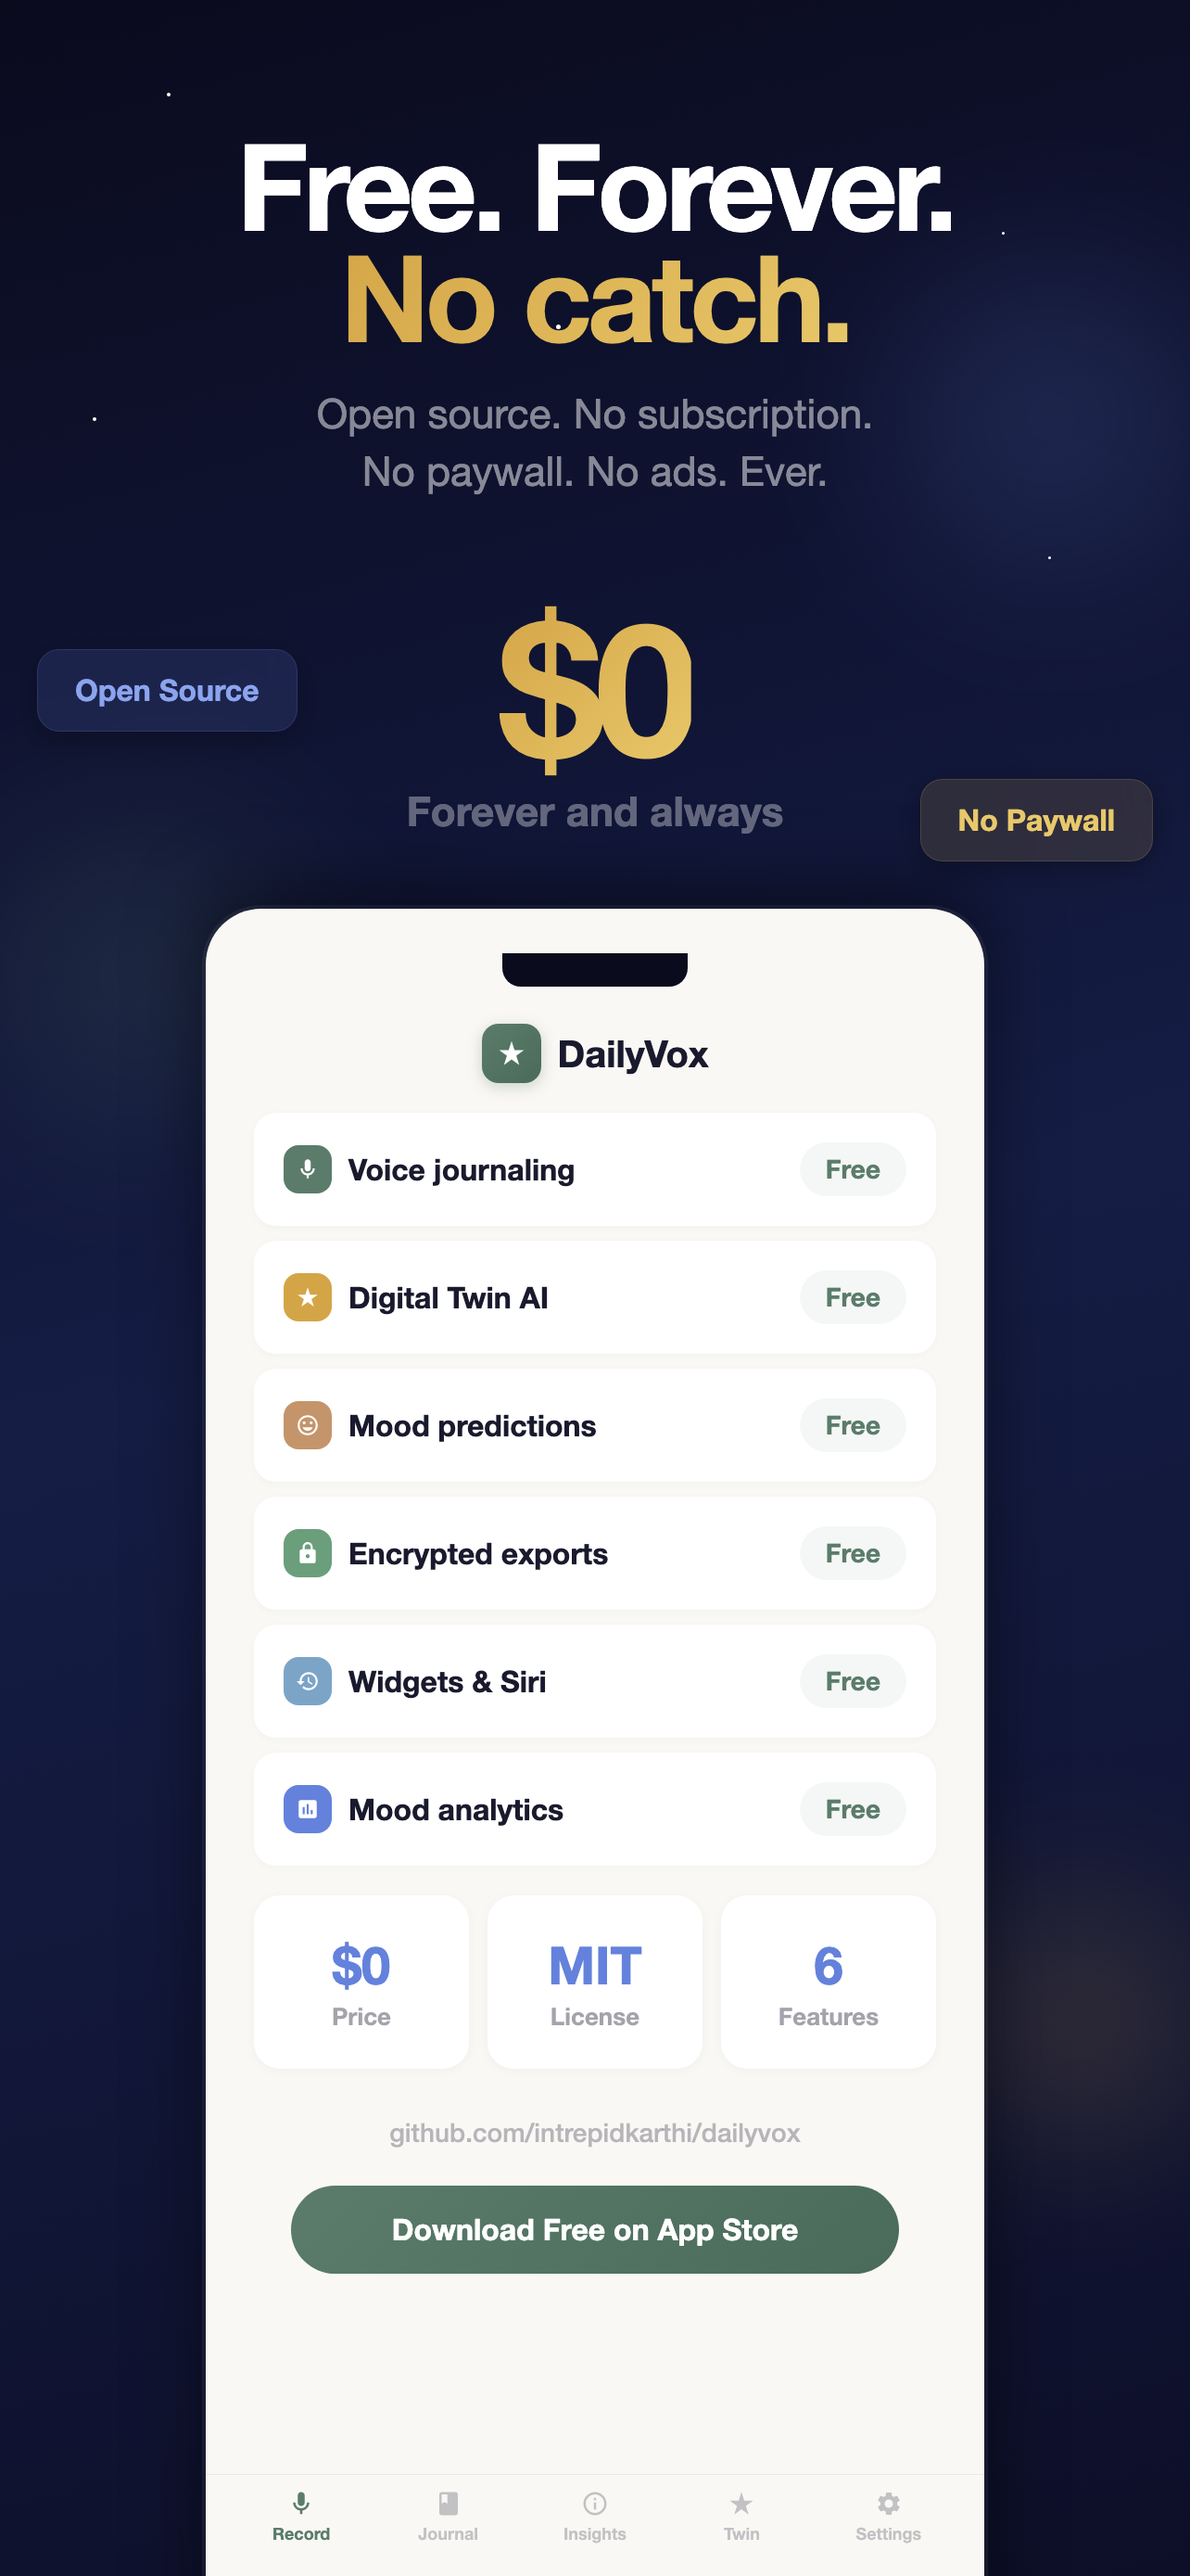
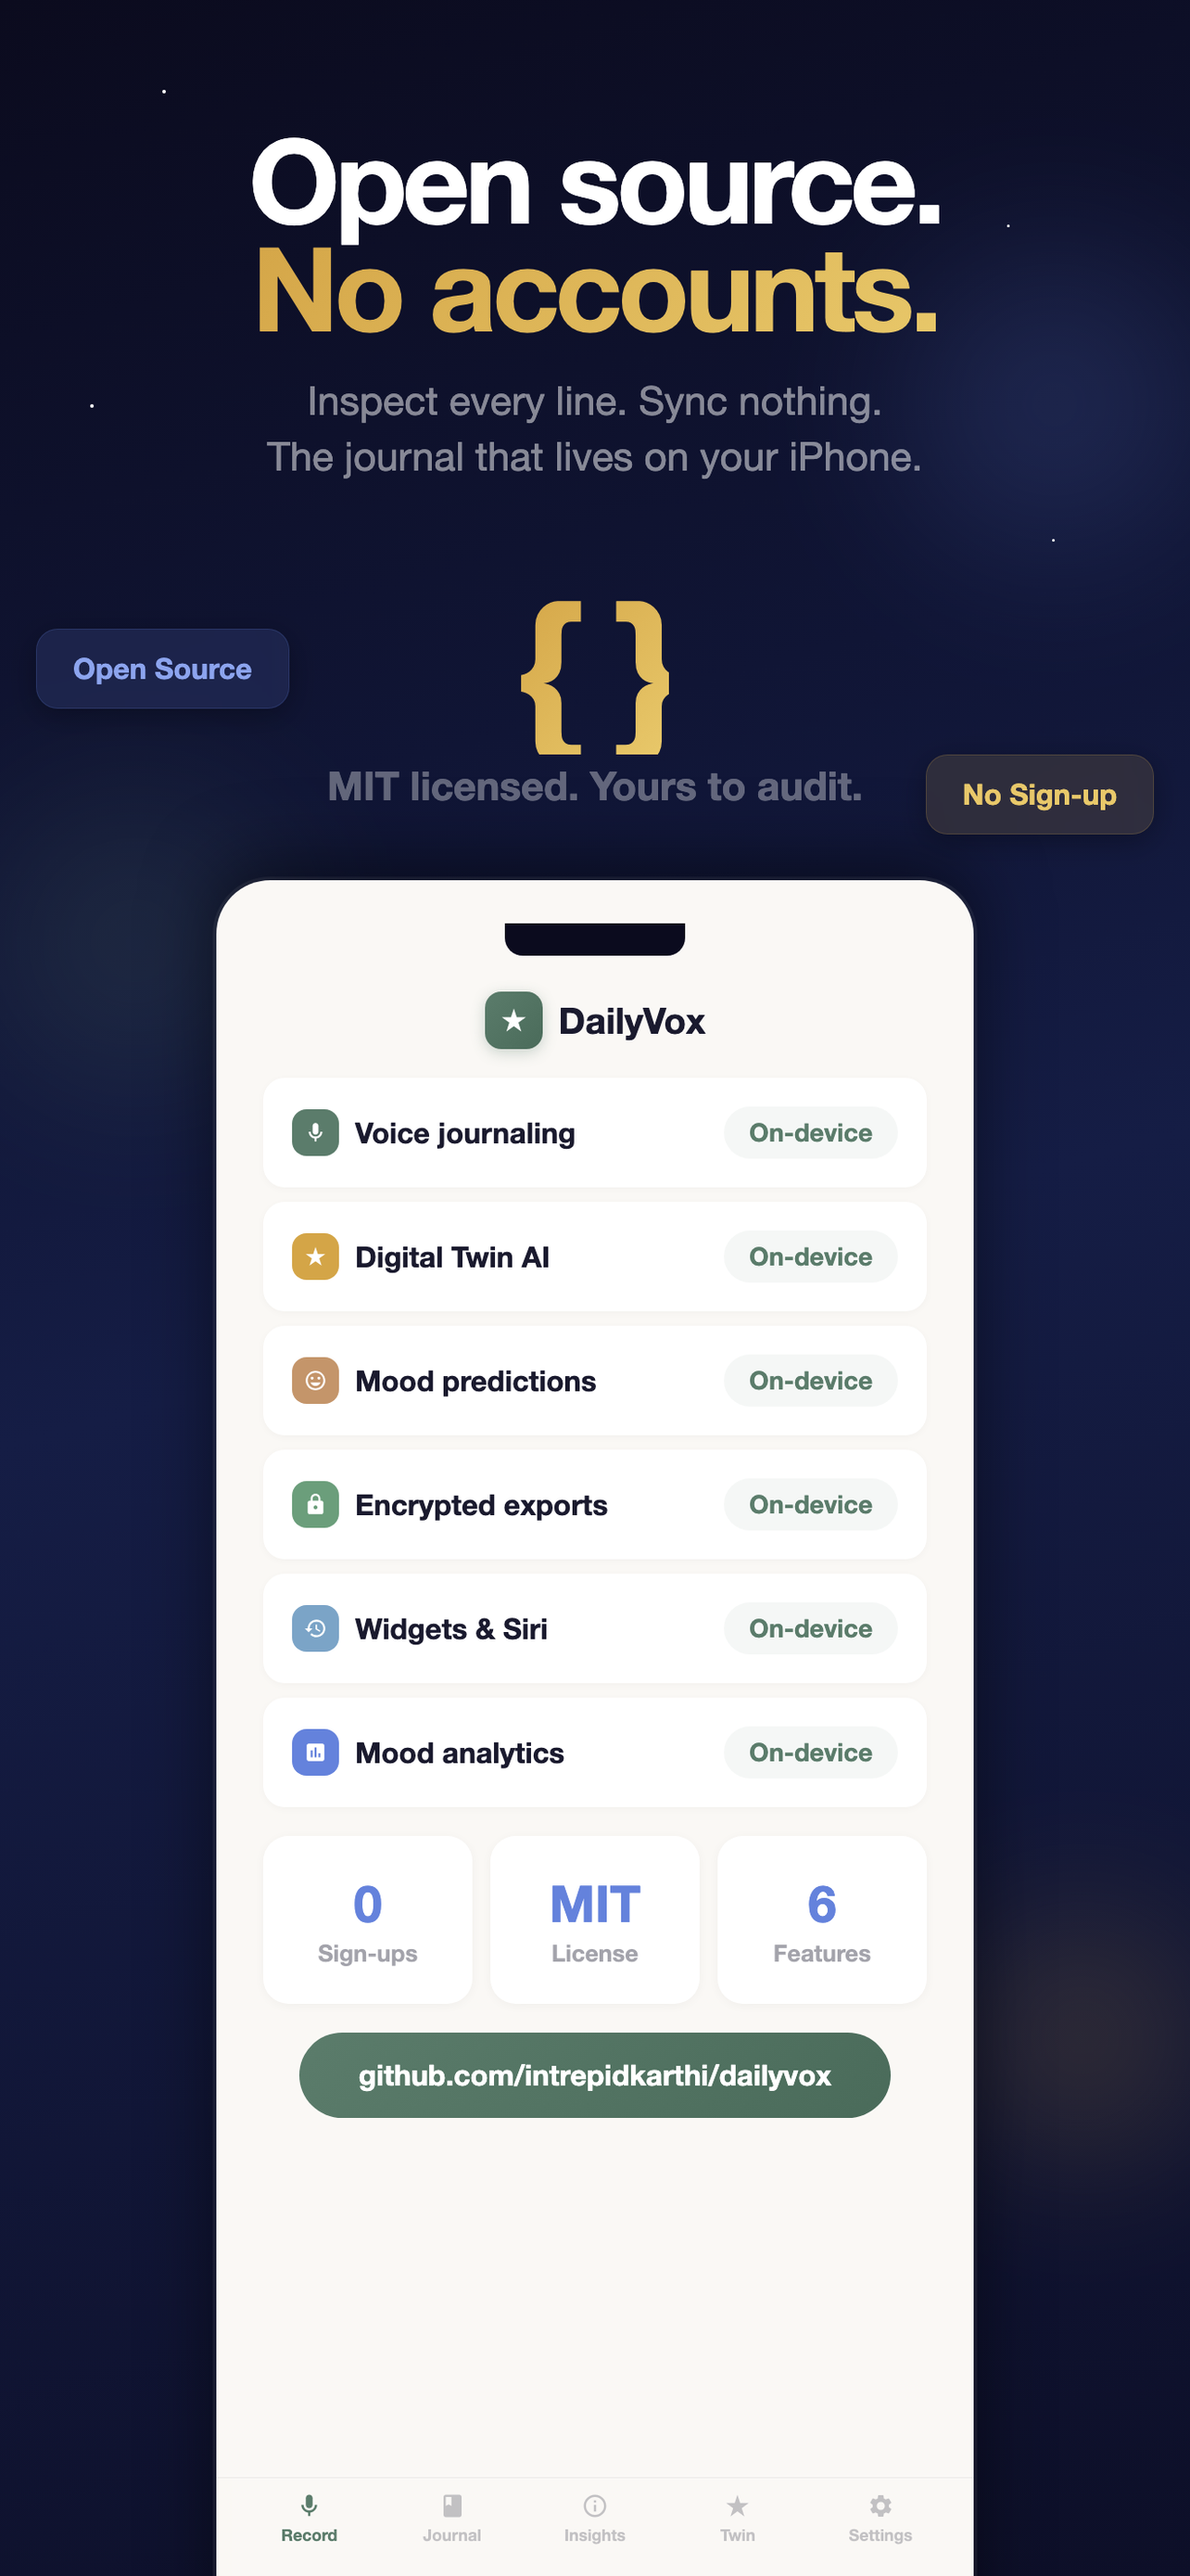
v1.3.5 resubmission: remove price refs from screenshots + roadmap consistency
Apple rejected v1.3.5 metadata for screenshot price references ("Free",
"$0"). All pricing language removed. Build 15 binary itself is fine — this
is metadata-only.

Screenshots
- 01_hero (6.7" + 6.5"): "$0 / Forever" stat → "0 / Trackers"
- 02_digital_twin (6.7" + 6.5"): same
- 06_free (6.7" + 6.5"): full rewrite. Was "Free. Forever. No catch." with
  a giant $0 and six "Free" badges. Now "Open source. No accounts." with
  a "{ }" MIT visual, six "On-device" badges, and stats "0 Sign-ups · MIT
  License · 6 Features". Filename kept as 06_free.png since it's internal
  only — Apple reviewers don't see filenames.

App Store metadata
- Caption #6: "Free forever. No accounts. No ads." → "Open source. No
  accounts. No tracking."

Roadmap consistency (was stale in 5 places)
- ROADMAP.md: drop "(current)" tag from v1.3.0 (v1.3.5 is the active release)
- CONTRIBUTING.md: contributor task list said "v1.3: Semantic search" but
  semantic search moved to v1.4 when Dynamic Island became v1.3.5
- website/about.html, technology.html (x3): "Next · v1.3" labels for
  NLEmbedding / semantic search → "Next · v1.4"

diff --git a/solyn/website/public/technology.html b/solyn/website/public/technology.html
@@ -1026,7 +1026,7 @@
           <div class="st-card">
             <div class="st-head">
               <div class="st-glyph">Ne</div>
-              <span class="st-pill st-pill-next">NEXT · v1.3</span>
+              <span class="st-pill st-pill-next">NEXT · v1.4</span>
             </div>
             <h3>NLEmbedding</h3>
             <div class="st-fw">512-dim word / sentence vectors</div>
@@ -1234,7 +1234,7 @@
         </div>
 
         <div class="callout">
-          <strong>Storage model:</strong> all four sub-models are Swift <code>Codable</code> structs serialized to JSON and stored in a single Core Data entity (<code>AIState</code>). The entire personality model can be loaded in one fetch, updated incrementally, and synced across devices as a single atomic object. No external database. No vector store until v1.3. Just Core Data.
+          <strong>Storage model:</strong> all four sub-models are Swift <code>Codable</code> structs serialized to JSON and stored in a single Core Data entity (<code>AIState</code>). The entire personality model can be loaded in one fetch, updated incrementally, and synced across devices as a single atomic object. No external database. No vector store until v1.4. Just Core Data.
         </div>
       </section>
 
@@ -1320,7 +1320,7 @@
           <div class="rd-item">
             <div class="rd-dot rd-now">→</div>
             <div class="rd-body">
-              <div class="rd-tag rd-now-txt">Next · v1.3</div>
+              <div class="rd-tag rd-now-txt">Next · v1.4</div>
               <h3>Semantic search + proactive insights</h3>
               <p>NLEmbedding for 512-dim sentence embeddings. Cosine similarity vector search. Z-score anomaly detection. K-means clustering. Foundation for v2.0 RAG.</p>
               <div class="rd-tags"><span>NLEmbedding</span><span>Cosine Similarity</span><span>Anomaly Detection</span><span>K-Means</span></div>

diff --git a/solyn/website/public/about.html b/solyn/website/public/about.html
@@ -797,7 +797,7 @@
           <div class="rd-item">
             <div class="rd-dot rd-next">○</div>
             <div class="rd-body">
-              <div class="rd-tag rd-next"><span class="rd-tag-text">Next · v1.3</span></div>
+              <div class="rd-tag rd-next"><span class="rd-tag-text">Next · v1.4</span></div>
               <h3>Semantic search + proactive insights</h3>
               <p><strong>Tech:</strong> <code>NLEmbedding</code> for 512-dim sentence embeddings per entry, persisted in Core Data. Custom cosine-similarity vector index for semantic queries. Z-score anomaly detection against emotional baseline triggering local notifications. K-means clustering on embedding space for hidden thematic groupings. Retrieval foundation for v2.0's RAG architecture. Zero network calls.</p>
             </div>

diff --git a/ROADMAP.md b/ROADMAP.md
@@ -35,7 +35,7 @@ This roadmap outlines the planned evolution of DailyVox. Contributions are welco
 - "Just 42 seconds" low-friction nudge on empty states
 - Monthly summaries in Timeline section headers (entry count + word count)
 
-### v1.3.0 — Constellation Update *(current)*
+### v1.3.0 — Constellation Update
 - Constellation metaphor: every entry becomes a star in your inner sky
 - ConstellationView: Canvas-based 60fps visualization with mood-colored stars, connections, nebulae
 - Celestial onboarding: star-birth welcome, planet system, aurora, shield, "Name your planets"

diff --git a/CONTRIBUTING.md b/CONTRIBUTING.md
@@ -39,9 +39,9 @@ Not sure what to work on? Here are some ways to jump in:
 - Add new export formats in `BackupService.swift`
 
 ### Advanced tasks (check the [Roadmap](ROADMAP.md))
-- **v1.3**: Semantic search with NLEmbedding
-- **v1.4**: Apple Watch companion app
-- **v2.0**: Foundation Models integration
+- **v1.4**: Semantic search with NLEmbedding (cosine similarity, K-means clustering, anomaly detection)
+- **v1.5**: Apple Watch + macOS companion apps
+- **v2.0**: Apple Foundation Models integration (on-device 3B LLM)
 
 ## Prerequisites
 
